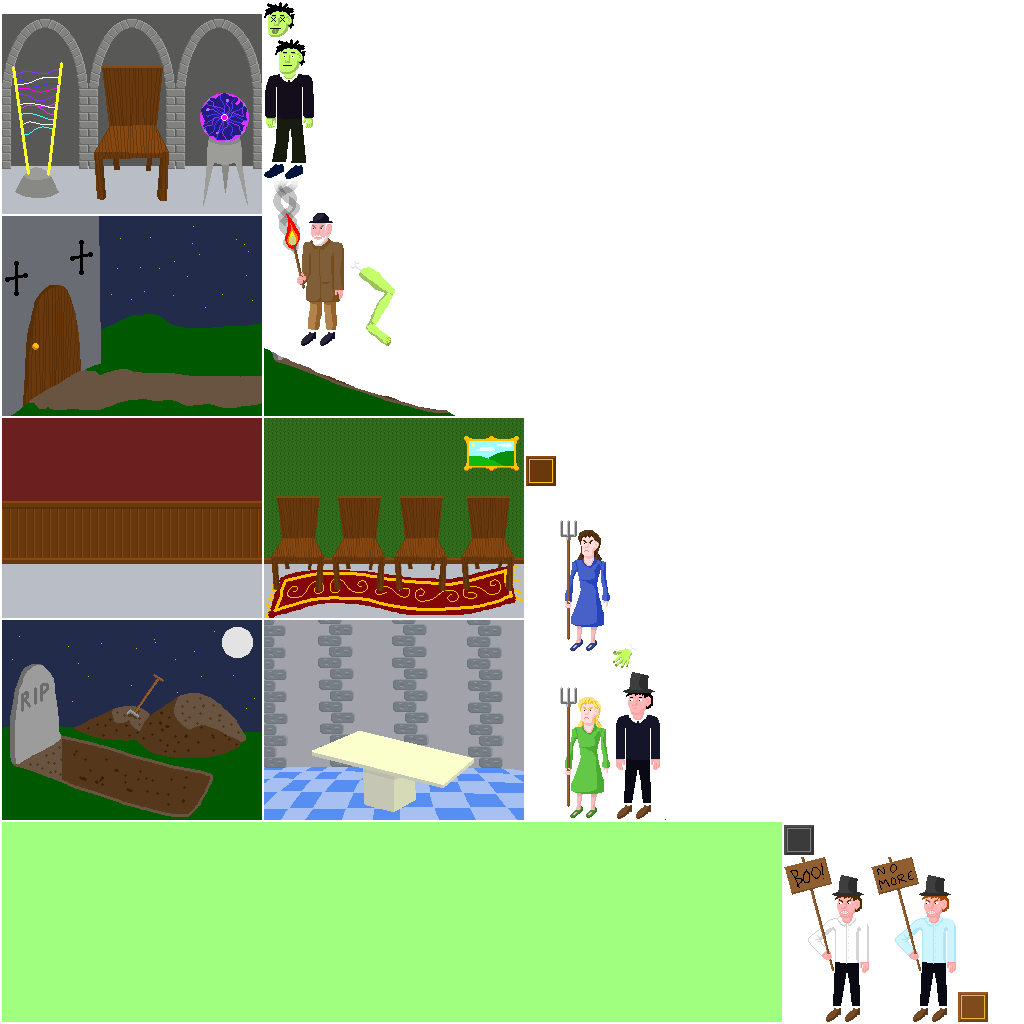
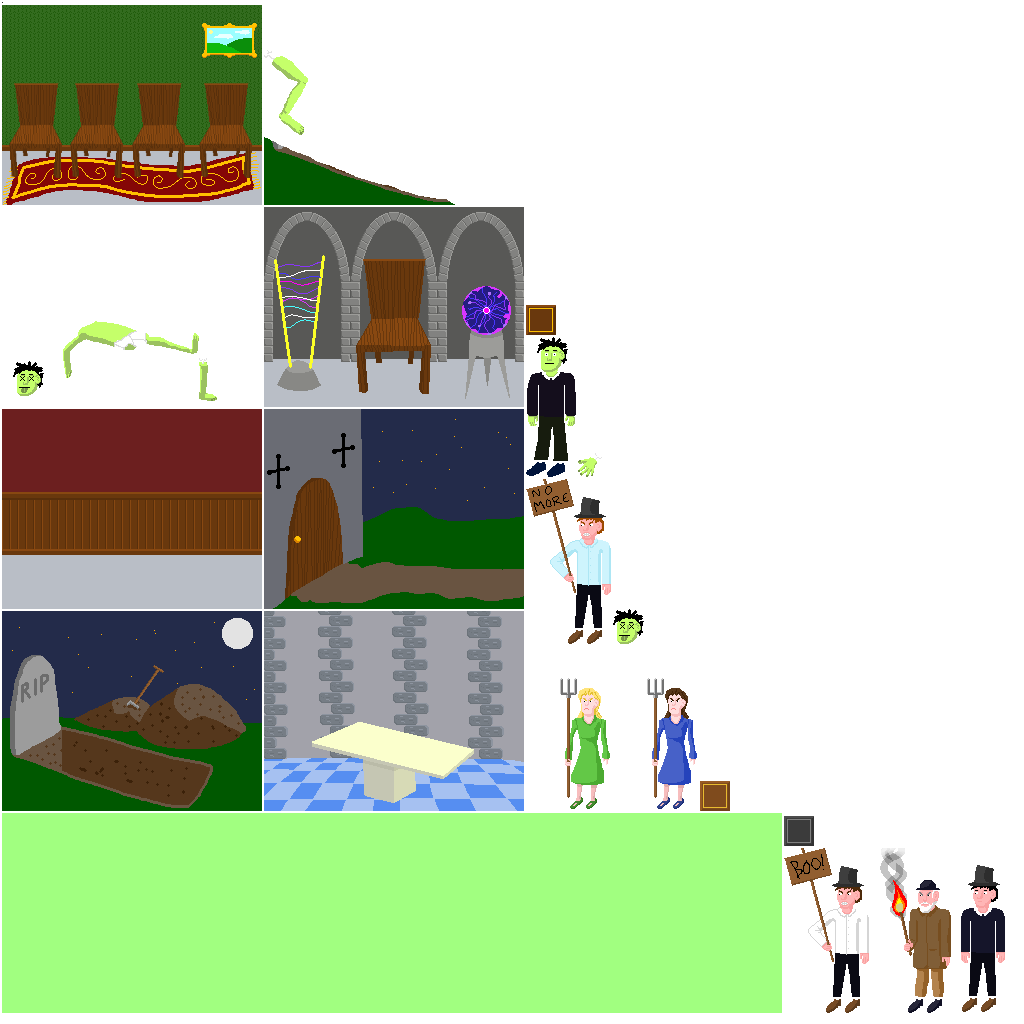
Body appears on the operating table when it's in use! :D

Changed region(s): [[0.0, 0.0, 1.0, 1.0], [0.0, 0.9688, 0.7812, 1.0]]

diff --git a/core/src/uk/co/samatkins/frankenstein/PlayScene.java b/core/src/uk/co/samatkins/frankenstein/PlayScene.java
@@ -22,7 +22,7 @@ public class PlayScene extends Scene {
 	private int bodyPartIndex;
 	private final Group bodyPartsGroup;
 
-	private final TextureRegion surgeryBackground;
+	private final TextureRegion surgeryBackground, surgeryInUse;
 	private int surgeons, surgeonMonsters;
 	private float stitchingCounter;
 	private float stitchingDelay;
@@ -166,6 +166,7 @@ public class PlayScene extends Scene {
 		addDigger(false);
 
 		surgeryBackground = game.skin.getRegion("operating-theatre");
+		surgeryInUse = game.skin.getRegion("operating-theatre-inuse");
 		surgeons = 0;
 		surgeonMonsters = 0;
 		stitchingCounter = 0;
@@ -546,6 +547,9 @@ public class PlayScene extends Scene {
 		batch.draw(diggingForeground, 0, 400);
 
 		batch.draw(surgeryBackground, 260, 400);
+		if (bodyPartCount >= 5) {
+			batch.draw(surgeryInUse, 260, 400);
+		}
 
 		batch.draw(zappingBackground, 520, 400);
 
